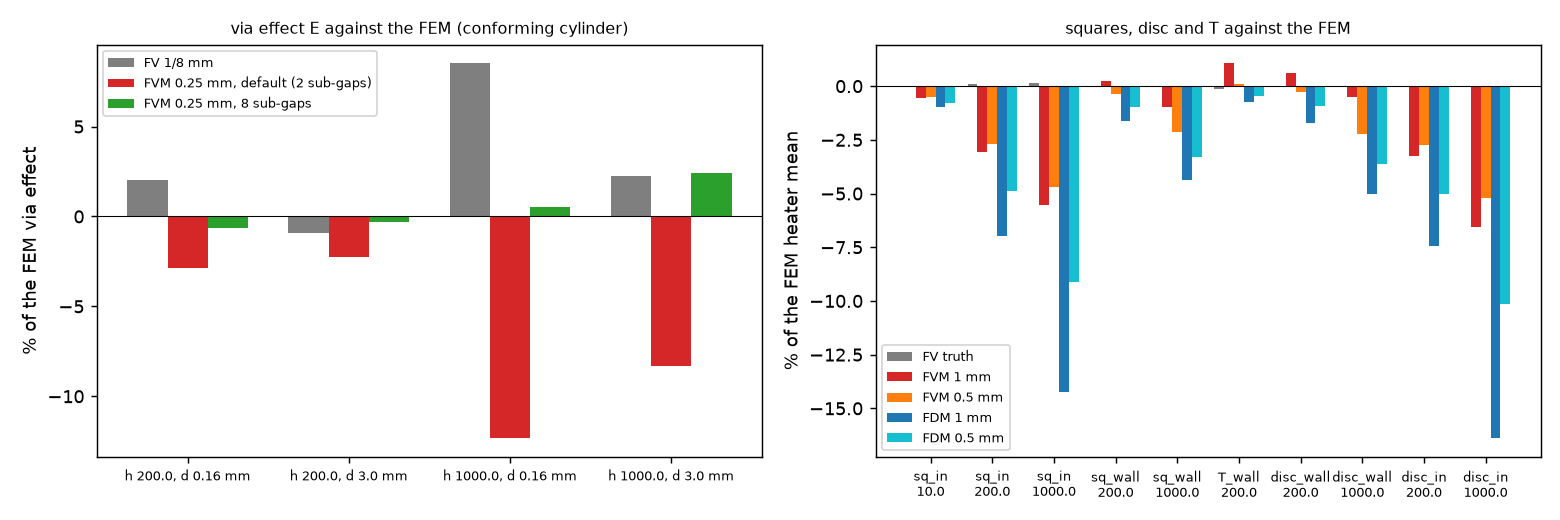
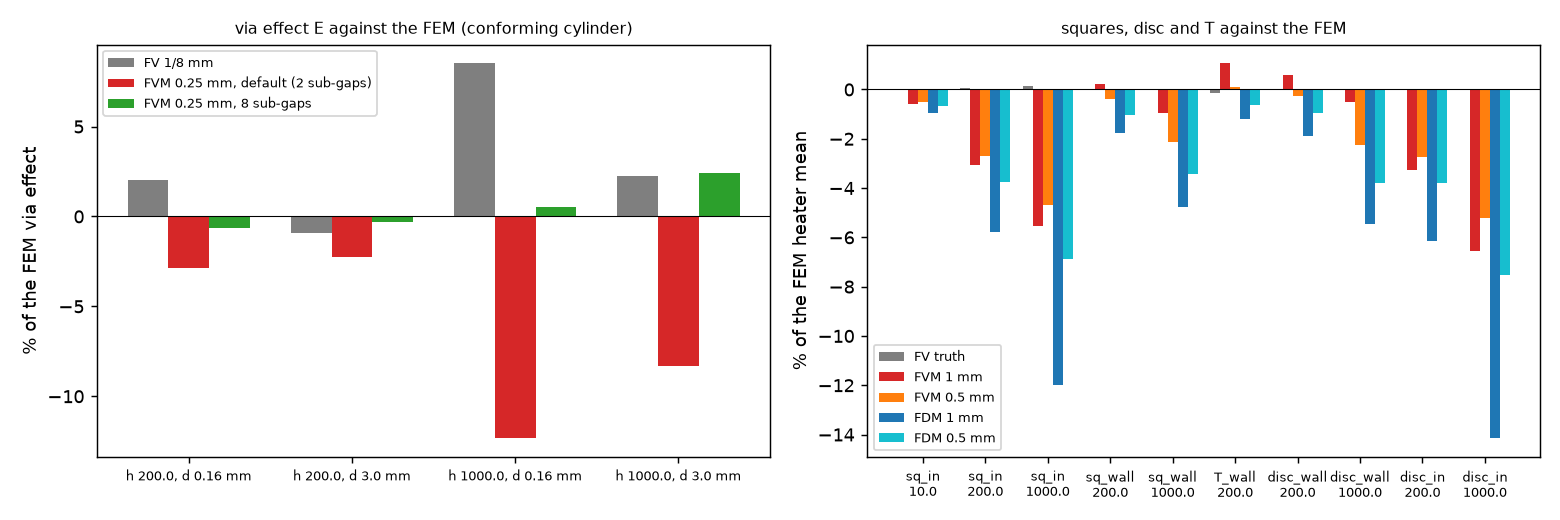
Re-run independent-fem-edge on develop and correct the FDM numbers
The FVM columns are bit-identical on develop e39de188; the FDM columns
moved with the cell-fill faces of validation 47. The first run's program
label (48ad0380) was wrong. Adds the closing review chapter.

Claude-Session: https://claude.ai/code/session_01XgeLDd5tWg6CEJL9TQpCpU

diff --git a/research/independent-fem-edge/README.md b/research/independent-fem-edge/README.md
@@ -30,7 +30,7 @@ Robin film as a natural boundary integral on the real wall, conforming cylinders
 
 ![Boards](figures/fig_04_boards_against_fem.png)
 
-*Figure 4 (fig_04_boards_against_fem.png): via effect and the squares, disc and T of the program against the finite elements (sections 3b to 3d).*
+*Figure 4 (fig_04_boards_against_fem.png): via effect and the squares, disc and T of the program (`develop` e39de188, the FDM with the cell-fill faces of validation 47) against the finite elements (sections 3b to 3d).*
 
 ## Layout and how to run (from the repository root)
 
@@ -150,8 +150,14 @@ conjugate gradients with a pyamg smoothed-aggregation preconditioner (`.venv-res
 ## 3. Comparison studies
 
 All numbers below are printed by `scripts/study_report.py` (`out/report.md`, `out/report.json`) from the caches of `study_fem_cases.py` (FEM),
-`study_program.py` (the program of this tree, `develop` at 48ad0380: FVM, and FDM at its harmonic default) and `study_fv_refs.py` (`ref3d.py` at
-1/4 and 1/8 mm with 8 slabs per gap; the stored truths of the drawn boards). **On this tree the simple and the advanced stack-up are bit-identical**
+`study_program.py` (the program: FVM, and the FDM at its default) and `study_fv_refs.py` (`ref3d.py` at
+1/4 and 1/8 mm with 8 slabs per gap; the stored truths of the drawn boards). **Program version of the columns** (review, section 7): every program number of sections 3, 4 and 6
+is the program of `develop` at e39de188 (2.7.0 candidate, version string 2.6.0), re-run by the review. The FVM columns are bit-identical (to 1e-9, all 160 records of
+`study_program.py` and the 208 FVM records of section 6) to the first run; the FDM columns moved where a drawn copper edge or an outline cuts the nodes, because
+the FDM faces of drawn copper layers are built from the copper fill of the cells since `fix/fdm-copper-edge-faces` (`docs/validation.md` 47); the first run's FDM
+value (the harmonic faces of validation 41) is kept in brackets where it moved. The first run was labelled `develop` at 48ad0380: that label was wrong (at 48ad0380 the
+simple stack-up still gave every node T / L, while the first run's simple and physical records are identical), so the first run was made on a later tree with the
+physical slabs and without the FDM cell-fill faces. **On this tree the simple and the advanced stack-up are bit-identical**
 (`fix/simple-stackup-physical-layers`, validation 43; asserted in `study_report.py` on every strong-edge record), so the program columns are
 "default (2 sub-gaps) / 8 sub-gaps" only. "FEM ext" is the Richardson limit of three plan meshes (6 graded elements per gap) plus a through-thickness
 correction from a 3 / 6 / 12 / 24 elements-per-gap sequence on the middle plan mesh (+0.013 K at 200 W/m2K, +0.045 K at 1000: the sequence
@@ -164,9 +170,9 @@ correction from a 3 / 6 / 12 / 24 elements-per-gap sequence on the middle plan m
 | 10 | to the wall | 51.6904 / 51.6801 / 51.6866 | - | 51.687 (0.01 %) | +0.02 % | +0.01 % | -0.02 / -0.01 | -0.03 / -0.01 | -0.05 / -0.10 |
 | 200 | to the wall | 36.9037 / 36.9317 / 36.9475 | 0.83 | 36.981 (0.07 %) | +0.78 % | +0.27 % | -0.57 / +0.46 | -0.03 / +1.53 | -1.10 / -1.44 |
 | 1000 | to the wall | 24.1242 / 24.2432 / 24.2751 | 1.90 | 24.332 (0.06 %) | +3.97 % | +1.65 % | **-3.52 / +2.01** | -1.97 / +6.12 | **-5.13 / -6.35** |
-| 10 | inset 0.5 mm | 53.2646 / 53.3670 / 53.3955 | 1.85 | 53.406 (0.03 %) | +0.58 % | +0.28 % | -0.11 / +0.30 | +0.35 / +0.89 | -0.97 / -1.26 |
-| 200 | inset 0.5 mm | 41.5794 / 41.7514 / 41.7971 | 1.91 | 41.826 (0.05 %) | +1.69 % | +0.82 % | -0.45 / +0.99 | +0.53 / +2.63 | -3.47 / -5.10 |
-| 1000 | inset 0.5 mm | 33.5260 / 33.7723 / 33.8373 | 1.92 | 33.906 (0.09 %) | +3.30 % | +1.57 % | -1.09 / +1.91 | +0.69 / +5.13 | **-7.64 / -12.21** |
+| 10 | inset 0.5 mm | 53.2646 / 53.3670 / 53.3955 | 1.85 | 53.406 (0.03 %) | +0.58 % | +0.28 % | -0.11 / +0.30 | +0.35 / +0.89 | -0.56 / -0.95 [-0.97 / -1.26] |
+| 200 | inset 0.5 mm | 41.5794 / 41.7514 / 41.7971 | 1.91 | 41.826 (0.05 %) | +1.69 % | +0.82 % | -0.45 / +0.99 | +0.53 / +2.63 | -1.48 / -2.28 [-3.47 / -5.10] |
+| 1000 | inset 0.5 mm | 33.5260 / 33.7723 / 33.8373 | 1.92 | 33.906 (0.09 %) | +3.30 % | +1.57 % | -1.09 / +1.91 | +0.69 / +5.13 | **-2.96 / -4.44** [-7.64 / -12.21] |
 
 Readings. (1) The first hexahedral study (a first hand-written hexahedral solver of this folder, 8 uniform bricks per gap, kept in git history at commit 5e28646f) extrapolated
 51.684 / 36.969 / 24.351 K: this solver gives 51.687 / 36.981 / 24.332, within 0.08 %. (2) The cell-centred reference `ref3d` converges from above at first
@@ -174,10 +180,11 @@ order where the film is strong: +1.65 % at 1/8 mm and 1000 W/m2K (copper to the 
 "3D reference" of validation 43 and 28 is therefore 1.6 % hot at 1000 W/m2K. (3) Against the FEM the FVM at 0.25 mm with the default two sub-gaps reads
 -3.5 % at 1000 W/m2K (validation 43.2 says -5.09 % against ref3d at 1/8 mm: the 1.6 points are the reference), -0.6 % at 200 (43.2: -0.83 %); with eight
 sub-gaps +2.0 % (43.2: +0.35 %): with the hot reference the eight-sub-gap program looked right and is in fact 2 % hot at 0.25 mm (the half-cell film of a
-cell wider than the sub-gap, which also gives +6.1 % at 0.5 mm). (4) The FDM at its harmonic default is cooler than the FVM everywhere: -5.1 % at 0.25 mm
-and 1000 W/m2K with copper to the wall, and **-7.6 % at 0.25 mm (-12.2 % at 0.5 mm) with the copper 0.5 mm inside the wall, where it already reads
--1.0 % at 10 W/m2K** (the FVM -0.1 %): the FDM's copper edge inside the board is a defect of its own, not of the edge film (the film is weak at 10 W/m2K).
-This FDM number is new; the repository has no FDM row for the inset board.
+cell wider than the sub-gap, which also gives +6.1 % at 0.5 mm). (4) The FDM at its default is cooler than the FVM everywhere: -5.1 % at 0.25 mm
+and 1000 W/m2K with copper to the wall (unchanged by the cell-fill faces: uniform copper), and with the copper 0.5 mm inside the wall -0.6 / -1.5 / -3.0 % at
+0.25 mm (10 / 200 / 1000 W/m2K; -1.0 / -2.3 / -4.4 % at 0.5 mm) on `develop` e39de188, where the first run with the harmonic faces read -1.0 / -3.5 / **-7.6 %**
+(-1.3 / -5.1 / -12.2 % at 0.5 mm). The cell-fill faces of validation 47 removed about 60 % of that deficit; the rest (2 to 3 points at 1000 W/m2K) is still
+a copper-edge error of the FDM (the FVM reads -0.1 / -0.5 / -1.1 %).
 
 ### 3(b) Via effect E = hottest rise without the via minus with it (K); via a solid copper cylinder of radius 0.15 mm at 0.16 and 3 mm from the wall
 
@@ -195,44 +202,49 @@ Readings. (1) The disc-share via (reference and earlier study) overstates E by 1
 the 1/4 mm one by 6 to 17 %. (2) The program's via with eight sub-gaps is within 2.4 % of the conforming FEM at 0.25 mm (validation 28 and 43.2 quote -7.3 %
 at 1000 W/m2K and 0.16 mm against ref3d 1/8 mm: that was the reference's +8.5 %; against the FEM it is **+0.5 %**); with the default two sub-gaps the via
 effect is 8 to 12 % low at 1000 W/m2K (43.2: -19.2 %, again half of it the reference), 2 to 3 % low at 200. (3) The FDM reads the via effect 4 to 16 % low
-at 0.25 mm with the defaults (no repository number to compare).
+at 0.25 mm with the defaults (no repository number to compare; unchanged on `develop` e39de188). (4) Review: the 1/4 and 1/8 mm references converge towards
+the FEM: their error ratio is 2.1 to 2.9 on the plate and 2.05 to 3.1 on the via 0.16 mm from the wall, and a first-order extrapolation of the two (2 v(1/8) - v(1/4))
+lands -0.05 to -0.67 % (plate) and -0.4 / -2.2 % (via, 1000 / 200) from the FEM: the two methods share their limit. The via 3 mm from the wall is not in the
+asymptotic range of the reference (+8.4 % at 1/4 mm, -0.9 % at 1/8 mm, ratio of the errors negative), so its "-0.9 %" agreement at 1/8 mm is partly a crossing.
 ### 3(c) The 20 mm squares and the disc, heater mean rise, K (FEM: 12 graded elements per gap, three plan meshes, plus a 6 / 12 / 24 thickness correction, observed order 2.6 to 2.95)
 
 The program columns are the mean error of the ten turned (0 .. 45 degrees) and shifted (0, 0.3 cell) boards of validation 40, with the worst in brackets
-and, where a stored finite-volume truth exists, the mean error against that truth in square brackets. The disc is the program's 180-gon outline at shifts
+and, where a stored finite-volume truth exists, the mean error against that truth in square brackets; in braces, the FDM of the first run (harmonic faces, before the cell-fill faces of validation 47). The disc is the program's 180-gon outline at shifts
 0 and 0.3 cell (two boards, the FEM disc is one conforming O-grid with the heater as its inner square).
 
 | board | h_side | FEM 0.4 / 0.2 / 0.1 mm (disc: n 8 / 16 / 32) | FEM ext (GCI) | stored FV truth | FVM 1 mm | FVM 0.5 mm | FDM 1 mm | FDM 0.5 mm |
 | :-- | :-- | :-- | :-- | :-- | :-- | :-- | :-- | :-- |
-| square, copper 1.2 mm in | 10 | 124.375 / 124.473 / 124.516 | 124.551 (0.03 %) | 124.571 (+0.02 %) | -0.57 (0.78) [-0.58] | -0.51 (0.55) [-0.52] | -0.99 (1.25) | -0.78 (0.87) |
-| same | 200 | 56.852 / 57.045 / 57.126 | 57.201 (0.13 %) | 57.247 (+0.08 %) | -3.07 (4.54) [-3.15] | -2.68 (2.94) [-2.76] | -6.97 (8.60) | -4.89 (5.70) |
-| same | 1000 | 38.572 / 38.792 / 38.884 | 38.972 (0.21 %) | 39.026 (+0.14 %) | -5.53 (8.26) [-5.66] | -4.68 (5.37) [-4.82] | **-14.23 (17.57)** | -9.12 (10.86) |
-| square, copper to the wall | 200 | 50.459 / 50.567 / 50.604 | 50.635 (0.05 %) | 50.619 (-0.03 %) | +0.22 (0.87) [+0.25] | -0.37 (0.55) [-0.34] | -1.62 (2.19) | -0.97 (1.31) |
-| same | 1000 | 29.880 / 30.024 / 30.072 | 30.114 (0.10 %) | 30.105 (-0.03 %) | -0.96 (1.89) [-0.93] | -2.15 (2.61) [-2.12] | -4.36 (5.36) | -3.31 (3.92) |
-| disc, copper to the rim | 200 | 58.999 / 59.053 / 59.075 | 59.104 (0.03 %) | - | +0.60 (1.22) | -0.25 (0.33) | -1.72 (1.78) | -0.93 (0.96) |
-| same | 1000 | 32.484 / 32.670 / 32.725 | 32.773 (0.09 %) | - | -0.52 (1.60) | -2.24 (2.32) | -5.02 (5.16) | -3.64 (3.71) |
-| disc, copper 1.2 mm in | 200 | 66.110 / 66.468 / 66.589 | 66.670 (0.12 %) | - | -3.25 (3.31) | -2.74 (2.88) | -7.42 (7.52) | -5.03 (5.08) |
-| same | 1000 | 42.637 / 43.179 / 43.354 | 43.462 (0.24 %) | - | -6.56 (6.96) | -5.23 (5.42) | **-16.38 (16.53)** | -10.13 (10.30) |
+| square, copper 1.2 mm in | 10 | 124.375 / 124.473 / 124.516 | 124.551 (0.03 %) | 124.571 (+0.02 %) | -0.57 (0.78) [-0.58] | -0.51 (0.55) [-0.52] | -0.95 (1.25) {-0.99} | -0.69 (0.82) {-0.78} |
+| same | 200 | 56.852 / 57.045 / 57.126 | 57.201 (0.13 %) | 57.247 (+0.08 %) | -3.07 (4.54) [-3.15] | -2.68 (2.94) [-2.76] | -5.77 (8.10) {-6.97} | -3.77 (4.88) {-4.89} |
+| same | 1000 | 38.572 / 38.792 / 38.884 | 38.972 (0.21 %) | 39.026 (+0.14 %) | -5.53 (8.26) [-5.66] | -4.68 (5.37) [-4.82] | **-11.99 (16.75)** {-14.23} | -6.86 (9.19) {-9.12} |
+| square, copper to the wall | 200 | 50.459 / 50.567 / 50.604 | 50.635 (0.05 %) | 50.619 (-0.03 %) | +0.22 (0.87) [+0.25] | -0.37 (0.55) [-0.34] | -1.78 (2.33) {-1.62} | -1.02 (1.35) {-0.97} |
+| same | 1000 | 29.880 / 30.024 / 30.072 | 30.114 (0.10 %) | 30.105 (-0.03 %) | -0.96 (1.89) [-0.93] | -2.15 (2.61) [-2.12] | -4.76 (5.70) {-4.36} | -3.44 (4.03) {-3.31} |
+| disc, copper to the rim | 200 | 58.999 / 59.053 / 59.075 | 59.104 (0.03 %) | - | +0.60 (1.22) | -0.25 (0.33) | -1.87 (1.92) {-1.72} | -0.97 (1.00) {-0.93} |
+| same | 1000 | 32.484 / 32.670 / 32.725 | 32.773 (0.09 %) | - | -0.52 (1.60) | -2.24 (2.32) | -5.45 (5.58) {-5.02} | -3.78 (3.85) {-3.64} |
+| disc, copper 1.2 mm in | 200 | 66.110 / 66.468 / 66.589 | 66.670 (0.12 %) | - | -3.25 (3.31) | -2.74 (2.88) | -6.15 (6.35) {-7.42} | -3.80 (3.90) {-5.03} |
+| same | 1000 | 42.637 / 43.179 / 43.354 | 43.462 (0.24 %) | - | -6.56 (6.96) | -5.23 (5.42) | **-14.14 (14.49)** {-16.38} | -7.52 (7.76) {-10.13} |
 
 Hottest rise of the disc (program `t_max` against the FEM node maximum; shifts 0 / 0.3): copper to the rim 200: FVM 1 mm -0.05 / +0.14 %, 0.5 mm -0.53 / -0.33,
-FDM 1 mm -1.18 / -2.27, 0.5 mm -0.81 / -1.11; 1000: FVM -1.62 / -1.22 and -2.64 / -2.19, FDM -3.82 / -5.78 and -3.23 / -3.79; copper 1.2 mm in, 200: FVM -4.27 / -2.93
-and -2.82 / -2.79, FDM -6.87 / -7.56 and -4.74 / -5.07; 1000: FVM -8.18 / -5.58 and -5.23 / -5.13, FDM -15.01 / -16.06 and -9.31 / -9.96.
+FDM 1 mm -1.33 / -2.41, 0.5 mm -0.85 / -1.15; 1000: FVM -1.62 / -1.22 and -2.64 / -2.19, FDM -4.22 / -6.16 and -3.36 / -3.91; copper 1.2 mm in, 200: FVM -4.27 / -2.93
+and -2.82 / -2.79, FDM -5.75 / -6.25 and -3.53 / -3.93; 1000: FVM -8.18 / -5.58 and -5.23 / -5.13, FDM -13.09 / -13.79 and -6.79 / -7.58 (`develop` e39de188; the first
+run's harmonic FDM read -1.18 / -2.27, -0.81 / -1.11, -3.82 / -5.78, -3.23 / -3.79, -6.87 / -7.56, -4.74 / -5.07, -15.01 / -16.06, -9.31 / -9.96 in the same order).
 
 Readings. (1) The stored finite-volume truths of the squares agree with the conforming finite elements within 0.14 % (the +0.39 % the first hexahedral study
 found at 1000 W/m2K came from its 8 uniform bricks per gap: with the thickness resolved the two families agree), so every "before -> after" number of
 validation 40.2 for the squares holds to 0.2 point against the FEM: copper 1.2 mm inside -3.1 / -5.5 % (1 mm, 200 / 1000), copper to the wall +0.2 / -1.0 %.
 (2) The disc, a case not in the repository, behaves like the square: copper to the rim within 0.6 % at 1 mm and 200 W/m2K (the cut cells of a 180-gon are
 no worse than those of a turned square), copper 1.2 mm inside -3.3 / -6.6 % at 1 mm (200 / 1000), -2.7 / -5.2 % at 0.5 mm: the drawn copper edge inside
-the board still reads cool, as validation 40 says of the square. (3) **The FDM at its harmonic default is 2 to 3 times worse than the FVM on every drawn
-board with the copper inside the outline**: -7.0 / -14.2 % at 1 mm (square, 200 / 1000; worst 17.6 %), -7.4 / -16.4 % on the disc; it is also 1 to 3 points
-below the FVM with the copper to the wall. The repository quotes no FDM numbers for these boards.
+the board still reads cool, as validation 40 says of the square. (3) **The FDM is about twice as far from the FEM as the FVM on every drawn board with the copper inside the outline**: with the cell-fill faces of `develop`
+e39de188 -5.8 / -12.0 % at 1 mm (square, 200 / 1000; worst 16.8 %), -6.2 / -14.1 % on the disc (the first run, harmonic faces: -7.0 / -14.2 %, worst 17.6 %, and
+-7.4 / -16.4 %, 2 to 3 times the FVM); with the copper to the wall it is 0.6 to 5 points below the FVM, and the cell-fill faces move it 0.05 to 0.5 point further
+away there (validation 47 says the same). Validation 47 quotes these FDM numbers.
 
 ### 3(d) The T outline with copper to the wall, 200 W/m2K, heater mean rise
 
 FEM 67.113 / 67.249 / 67.291 K at 0.4 / 0.2 / 0.1 mm (12 per gap), p 1.70, extrapolated 67.325 K (GCI 0.03 %); the whole T solved without the symmetry plane
 gives 67.1124 against 67.1132 K of the half domain at 0.4 mm (the symmetry cut is right). Stored finite-volume truth 67.2415 K (-0.12 % from the FEM; the
 earlier hex study said -0.05 %). Program, ten turned boards: FVM 1 mm **+1.06 % (worst 1.35)** against the FEM, +1.19 (1.48) against the truth; 0.5 mm +0.12 (0.49)
-and +0.24 (0.42); FDM 1 mm -0.73 (3.10), 0.5 mm -0.44 (1.47). The +1.19 % hot excess of validation 40.2 is real (+1.06 % against the FEM) and falls with the cell.
+and +0.24 (0.42); FDM 1 mm -1.20 (3.29), 0.5 mm -0.61 (1.52) on `develop` e39de188 (first run, harmonic faces: -0.73 (3.10), -0.44 (1.47)). The +1.19 % hot excess of validation 40.2 is real (+1.06 % against the FEM) and falls with the cell.
 
 ## 4. Disagreements and proposed corrections to `docs/validation.md` (text for the project documents in `docs/validation-text.md`; the documents are not edited on this branch)
 
@@ -250,10 +262,13 @@ and +0.24 (0.42); FDM 1 mm -0.73 (3.10), 0.5 mm -0.44 (1.47). The +1.19 % hot ex
 4. **Validation 44, "not reconciled" (-1.3 / -3.9 / -7.2 / -11.7 against -0.8 / -2.5 / -5.1 / -8.9 %)**: not resolved here (that study's boards were not run); but
    the reference of section 36 / 43 being 1.6 % hot at 1000 W/m2K narrows the gap of the 1000 column from 2.1 to about 0.5 point if section 44's reference is
    closer to converged; worth a check with this solver (its boards are 10 x 10 mm with thin gaps, two minutes each).
-5. **New, not in the documents**: (a) the FDM at its harmonic default reads a drawn copper edge inside the outline 2 to 3 times cooler than the FVM
+5. **FDM findings** (the first run, harmonic faces): (a) the FDM read a drawn copper edge inside the outline 2 to 3 times cooler than the FVM
    (square and disc with copper 1.2 mm in: -7 / -14 % at 1 mm and 200 / 1000 W/m2K; -5 / -9 % at 0.5 mm) and the strong-edge plate with a 0.5 mm inset
-   -1.0 % already at 10 W/m2K (-7.6 % at 1000, 0.25 mm), where the FVM reads -0.1 / -1.1 %; (b) the FDM via effect is 4 to 16 % low at 0.25 mm. These are
-   candidates for an FDM warning or a fix (the FDM is the comparison model); the maintainer decides whether a validation row is wanted.
+   -1.0 % already at 10 W/m2K (-7.6 % at 1000, 0.25 mm), where the FVM reads -0.1 / -1.1 %; (b) the FDM via effect is 4 to 16 % low at 0.25 mm. Item (a) was
+   taken up by `research/fdm-inset-edge` and `fix/fdm-copper-edge-faces` (`docs/validation.md` 47, now in `develop`): on `develop` e39de188 the same boards read
+   -5.8 / -12.0 % (square, 1 mm), -3.8 / -6.9 % (0.5 mm), and the inset plate -0.6 / -1.5 / -3.0 % at 0.25 mm (10 / 200 / 1000 W/m2K): about twice the FVM's
+   error, no longer two to three times; the residual and the box-against-outline difference are A40 of `research/ROADMAP.md`. Item (b) is unchanged and is
+   not in any project document (a candidate for an FDM limit sentence).
 6. **The first hexahedral study (this folder before the present solver, commit 5e28646f)**: its plate extrapolations agree with this solver within 0.08 %, its square truths
    differ by up to 0.3 % through its 8 uniform bricks per gap (the thickness was not extrapolated there), and its via effect carries the disc-share bias
    (+1.5 to +2.3 %). Its numbers are superseded by the conforming values above.
@@ -268,8 +283,9 @@ the read-out convention of the hottest rise: the FEM gives the point maximum, th
   invariance, the published cases through the repository's values (the papers were not reopened: the published numbers are quoted from
   `research/effective-conductivity`, status S), the half-domain cuts (T whole = half), the energy balance on every solve.
 * **Not verified**: the representation of the via by a solid cylinder is the references' and the program's `fill_k = 385` convention, not a real plated
-  barrel (`r_in`, `k_fill` exist in `board.py` but no hollow via was run); the via sits on the symmetry line (half domain), as in `ref3d`; the FDM findings
-  of section 4.5 were not traced to a cause in `fdm.py` (a `fix/` investigation); the section 44 boards were not run; the
+  barrel (`r_in`, `k_fill` exist in `board.py` but no hollow via was run); the via sits on the symmetry line (half domain), as in `ref3d`; the FDM finding
+  4.5(a) was traced elsewhere (`research/fdm-inset-edge`: the half-copper node at a copper edge, fixed in part by `fix/fdm-copper-edge-faces`), the residual and
+  4.5(b) were not traced here; the section 44 boards are section 6; the
   L outline and the four-layer / pad / stripe boards of validation 40 were not run; no time domain, no metal blocks, no imported masks.
 * **Mesh limits reached**: plan 0.05 mm on the strong-edge board (138 000 to 158 000 unknowns, CG + AMG, 1.6 GB), 0.1 mm on the squares and T, n_side 32 on
   the disc, 24 elements per gap in the thickness sequences; the whole study peaked at 2.73 GB of resident memory (one direct solve of 59 000 unknowns);
@@ -277,7 +293,7 @@ the read-out convention of the hottest rise: the FEM gives the point maximum, th
   stopped: section 2).
 * **Observed orders below 2** on some plan sequences (0.83 at 200 W/m2K on the plate, 1.2 to 1.6 on the squares): the hottest point under a source and the
   re-entrant corners are singular, and the plan sequence has a graded mesh whose coarse part does not refine by exactly 2; the GCI (0.01 to 0.24 %) is
-  the honest band, and the through-thickness sequences (order 2.6 to 2.95) are clean.
+  the band of the graded sequences (with `hmax` held fixed the far field is not refined: a uniform sequence moves the plate at 200 W/m2K by 0.04 %, inside its GCI, but the Lee plate by 0.09 %, outside it; section 7.2; no conclusion moves), and the through-thickness sequences (order 2.6 to 2.95) are clean.
 * **Machine**: shared, one run at a time; the solves took 0 to 22 s each; the program runs under 1 GB.
 
 ## 6. Thin-laminate boards of validation 44
@@ -298,7 +314,7 @@ program, not by the FEM**: the 6-layer boards at 0.125 mm with 8 sub-gaps (294 0
 
 ### 6.1 Table (errors in % against the FEM; the FEM column "hottest 0.25 mm cell" is the like-for-like read-out of the program and of the reference at 0.25 mm; the 0.5 and 0.125 mm columns are measured against the FEM hottest cell of their own size; the FEM point extrapolation carries the 6 / 12 elements-per-gap correction measured at 1000 W/m2K, at most +0.03 K)
 
-| board | h_side | FEM point ext (GCI) | FEM hottest 0.25 mm cell | ref 0.25/8 | ref 0.125/8 | FVM 0.25: default / 8 | FVM 0.5: default / 8 | FVM 0.125/8 | FDM 0.25 default / 8 |
+| board | h_side | FEM point ext (GCI) | FEM hottest 0.25 mm cell | ref 0.25/8 | ref 0.125/8 | FVM 0.25: default / 8 | FVM 0.5: default / 8 | FVM 0.125/8 | FDM 0.25 default / 8 (pads: [first run, harmonic faces]) |
 | :-- | :-- | :-- | :-- | :-- | :-- | :-- | :-- | :-- | :-- |
 | full 2L 1.0 mm | 200 | 36.918 (-0.08 %) | 36.868 | +0.7 | +0.4 | -0.3 / +0.3 | +0.5 / +1.3 | +0.1 | -0.6 / -0.1 |
 | full 2L 1.0 mm | 500 | 31.188 (0.02 %) | 31.143 | +1.8 | +0.9 | -1.5 / +0.6 | -0.2 / +2.5 | -0.0 | -2.3 / -0.8 |
@@ -332,18 +348,18 @@ program, not by the FEM**: the 6-layer boards at 0.125 mm with 8 sub-gaps (294 0
 | full 8L 1.6 mm | 500 | 26.282 (0.10 %) | 26.239 | +3.5 | - | -2.1 / +2.8 | -1.5 / +6.7 | - | -2.1 / -1.1 |
 | full 8L 1.6 mm | 1000 | 21.276 (0.21 %) | 21.229 | +6.1 | - | -3.9 / +4.6 | -3.2 / +10.5 | - | -3.9 / -2.0 |
 | full 8L 1.6 mm | 2000 | 17.669 (0.37 %) | 17.616 | +8.8 | - | -6.2 / +6.2 | -5.4 / +13.2 | - | -6.2 / -3.1 |
-| pad 4L 1.6 mm | 200 | 61.073 (0.11 %) | 61.029 | +2.9 | +1.4 | -0.6 / +1.9 | +1.9 / +4.8 | +0.5 | -5.4 / -3.4 |
-| pad 4L 1.6 mm | 500 | 54.337 (0.14 %) | 54.295 | +3.8 | +1.8 | -1.0 / +2.5 | +2.0 / +6.3 | +0.7 | -6.9 / -4.1 |
-| pad 4L 1.6 mm | 1000 | 50.299 (0.17 %) | 50.257 | +4.6 | +2.1 | -1.7 / +2.9 | +1.6 / +7.4 | +0.8 | -8.3 / -4.8 |
-| pad 4L 1.6 mm | 2000 | 47.383 (0.20 %) | 47.342 | +5.5 | +2.6 | -2.7 / +3.1 | +0.7 / +8.1 | +0.9 | -9.7 / -5.4 |
-| pad 6L 1.6 mm | 200 | 50.150 (0.11 %) | 50.106 | +2.5 | +1.1 | -1.3 / +1.9 | +0.5 / +4.4 | +0.6 | -4.9 / -2.6 |
-| pad 6L 1.6 mm | 500 | 42.671 (0.16 %) | 42.628 | +3.8 | +1.7 | -2.4 / +3.0 | -0.2 / +6.9 | +1.0 | -6.8 / -3.4 |
-| pad 6L 1.6 mm | 1000 | 38.159 (0.21 %) | 38.117 | +5.1 | +2.2 | -3.7 / +3.8 | -1.3 / +8.8 | +1.3 | -8.8 / -4.2 |
-| pad 6L 1.6 mm | 2000 | 34.985 (0.26 %) | 34.943 | +6.2 | +2.8 | -5.1 / +4.5 | -2.5 / +10.0 | +1.6 | -10.6 / -5.0 |
-| pad 8L 1.0 mm | 200 | 37.130 (0.15 %) | 37.094 | +1.8 | - | +0.3 / +1.3 | +1.2 / +2.8 | - | -1.8 / -1.4 |
-| pad 8L 1.0 mm | 500 | 30.676 (0.26 %) | 30.642 | +3.8 | - | +0.3 / +3.2 | +1.6 / +6.5 | - | -2.5 / -2.0 |
-| pad 8L 1.0 mm | 1000 | 25.890 (0.39 %) | 25.857 | +6.5 | - | -0.0 / +5.5 | +1.7 / +10.6 | - | -3.5 / -2.7 |
-| pad 8L 1.0 mm | 2000 | 22.131 (0.54 %) | 22.100 | +9.3 | - | -0.7 / +7.7 | +1.2 / +14.0 | - | -4.8 / -3.6 |
+| pad 4L 1.6 mm | 200 | 61.073 (0.11 %) | 61.029 | +2.9 | +1.4 | -0.6 / +1.9 | +1.9 / +4.8 | +0.5 | -3.1 / -2.0 [-5.4 / -3.4] |
+| pad 4L 1.6 mm | 500 | 54.337 (0.14 %) | 54.295 | +3.8 | +1.8 | -1.0 / +2.5 | +2.0 / +6.3 | +0.7 | -4.1 / -2.5 [-6.9 / -4.1] |
+| pad 4L 1.6 mm | 1000 | 50.299 (0.17 %) | 50.257 | +4.6 | +2.1 | -1.7 / +2.9 | +1.6 / +7.4 | +0.8 | -5.2 / -3.0 [-8.3 / -4.8] |
+| pad 4L 1.6 mm | 2000 | 47.383 (0.20 %) | 47.342 | +5.5 | +2.6 | -2.7 / +3.1 | +0.7 / +8.1 | +0.9 | -6.4 / -3.5 [-9.7 / -5.4] |
+| pad 6L 1.6 mm | 200 | 50.150 (0.11 %) | 50.106 | +2.5 | +1.1 | -1.3 / +1.9 | +0.5 / +4.4 | +0.6 | -3.2 / -1.8 [-4.9 / -2.6] |
+| pad 6L 1.6 mm | 500 | 42.671 (0.16 %) | 42.628 | +3.8 | +1.7 | -2.4 / +3.0 | -0.2 / +6.9 | +1.0 | -4.8 / -2.5 [-6.8 / -3.4] |
+| pad 6L 1.6 mm | 1000 | 38.159 (0.21 %) | 38.117 | +5.1 | +2.2 | -3.7 / +3.8 | -1.3 / +8.8 | +1.3 | -6.5 / -3.2 [-8.8 / -4.2] |
+| pad 6L 1.6 mm | 2000 | 34.985 (0.26 %) | 34.943 | +6.2 | +2.8 | -5.1 / +4.5 | -2.5 / +10.0 | +1.6 | -8.1 / -3.8 [-10.6 / -5.0] |
+| pad 8L 1.0 mm | 200 | 37.130 (0.15 %) | 37.094 | +1.8 | - | +0.3 / +1.3 | +1.2 / +2.8 | - | -1.4 / -1.2 [-1.8 / -1.4] |
+| pad 8L 1.0 mm | 500 | 30.676 (0.26 %) | 30.642 | +3.8 | - | +0.3 / +3.2 | +1.6 / +6.5 | - | -2.0 / -1.7 [-2.5 / -2.0] |
+| pad 8L 1.0 mm | 1000 | 25.890 (0.39 %) | 25.857 | +6.5 | - | -0.0 / +5.5 | +1.7 / +10.6 | - | -3.0 / -2.4 [-3.5 / -2.7] |
+| pad 8L 1.0 mm | 2000 | 22.131 (0.54 %) | 22.100 | +9.3 | - | -0.7 / +7.7 | +1.2 / +14.0 | - | -4.2 / -3.3 [-4.8 / -3.6] |
 
 The FEM plan sequences of the 8-layer boards at 1000 and 2000 W/m2K are the least converged (observed order 0.6 to 0.9, GCI 0.4 to 1.3 %): the gaps are 0.10 to
 0.19 mm and the 0.05 mm plan size is not yet asymptotic for the field at the wall; the 0.25 mm cell mean, which is what every comparison uses, is less
@@ -367,9 +383,10 @@ sensitive than the point maximum. Elsewhere the GCI is 0.01 to 0.27 %.
    `check_edge_laminate` already says of the 0.5 mm cell). Against the hot reference at 0.25 mm they looked right (-0.2 .. -2.6 %). The program at 0.125 mm
    with eight sub-gaps is +0.2 .. +2.7 % (thin), +0.5 .. +1.6 % (pads), -1.0 .. +0.7 % (cut gaps): the layered idealisation converges to the FEM from above
    with the cell and from below with the sub-gap count; the default at 0.25 mm and eight sub-gaps at 0.125 mm bracket the truth.
-4. **FDM** (harmonic default, 0.25 mm): on the full-copper boards the same as the FVM to 0.1 point (-0.2 .. -1.1 / -0.9 .. -3.3 / -2.2 .. -5.9 / -4.0 .. -9.6 %);
-   on the **pad boards 2 to 5 points cooler than the FVM** (-1.8 .. -5.4 % already at 200 W/m2K, -3.5 .. -8.8 at 1000, -4.8 .. -10.6 at 2000): the copper edge
-   inside the outline again (section 4, item 5a), now on a four- to eight-layer board with inner planes.
+4. **FDM** (default, 0.25 mm): on the full-copper boards the same as the FVM to 0.1 point (-0.2 .. -1.1 / -0.9 .. -3.3 / -2.2 .. -5.9 / -4.0 .. -9.6 %;
+   unchanged by the cell-fill faces); on the **pad boards 1.7 to 3.7 points cooler than the FVM** on `develop` e39de188 (-1.4 .. -3.2 % at 200 W/m2K, -3.0 .. -6.5
+   at 1000, -4.2 .. -8.1 at 2000), where the first run with the harmonic faces read 2 to 5 points (-1.8 .. -5.4 / -3.5 .. -8.8 / -4.8 .. -10.6 %): the copper edge
+   inside the outline again (section 4, item 5a), on a four- to eight-layer board with inner planes; the faces of validation 47 cut the FDM error of the pads by a fifth to two fifths.
 
 #### 6.3 Proposed corrections (not edited)
 
@@ -390,14 +407,68 @@ sensitive than the point maximum. Elsewhere the GCI is 0.01 to 0.27 %.
 
 ## 7. Review
 
-Scope: `lib/`, `tests/`, `scripts/` and sections 1 to 6. Everything here was re-run. The checks are reproduced by `tests/test_review.py` or quoted with their output.
+Two reviews by the project reviewer: the review of the folder as it is in the repository (7.0 to 7.0.4, the closing review, run on `develop` e39de188) and the
+first review of the tool before it entered the repository (7.1 to 7.8, its checks re-confirmed by the closing review where said).
 
-### 7.0 Verdict
+### 7.0 Verdict of the closing review
 
-**GO** as the independent reference for the **steady** validation numbers of layered boards: copper sheets, orthotropic laminate, films on the faces and
-on every wall slice, axis-aligned, turned and disc outlines, and a solid copper via cylinder. Two conditions apply: (a) the Lee values are the corrected
-ones below, and (b) any `docs/validation.md` sentence that compares a **hottest rise** of the program with the FEM states the read-out convention
-(point against cell mean, below). It is **not** a reference for transients, metal blocks, imported masks or a hollow plated barrel. None of these was run.
+**GO** for the merge of the folder and as the independent reference for the **steady** validation numbers of layered boards (copper sheets, orthotropic
+laminate, films on the faces and on every wall slice, axis-aligned, turned and disc outlines, a solid copper via cylinder), with the conditions of the first
+review kept: (a) the corrected Lee values, (b) a `docs/validation.md` sentence that compares a program **hottest rise** with the FEM states whether the FEM value
+is the point maximum or the hottest cell mean (section 7.0.3 finds that validation 46 does not). It is **not** a reference for transients, metal blocks,
+imported masks or a hollow plated barrel (none was run). The project documents need the corrections of `docs/validation-text.md` (stale FDM numbers, the
+read-out sentence of validation 46, the places that call the reference "outside the repository"); they are not edited on this branch.
+
+#### 7.0.1 What was re-run (`develop` e39de188 merged into the branch; `.venv` for the program, `.venv-research` with scikit-fem 12.0.2 and pyamg 5.4.1)
+
+* Tests: `.venv` 11 passed, 1 skipped (the scikit-fem cross-check); `.venv-research` 12 passed.
+* `study_program.py` (all 160 records, 19 s, 0.26 GB) and `study_thin_laminate.py prog` (every FVM record at 0.5 and 0.25 mm, the 0.125 mm records of the
+  2- and 4-layer boards, every FDM record; 92 s, 2.6 GB peak); `study_report.py` and `study_thin_laminate.py report` print the tables of sections 3 and 6.
+  **FVM: all 160 + 208 records bit-identical (1e-9) to the first run. FDM: 32 of 160 and 36 of 132 records moved** (every board with a drawn copper edge or an
+  outline cutting the nodes; full-copper plates and the vias did not move), by the cell-fill faces of `fix/fdm-copper-edge-faces`. The tables now carry the
+  numbers of `develop` e39de188 with the first run's FDM in brackets; the new FDM numbers reproduce `docs/validation.md` 47 to the digit (inset plate
+  -0.56 / -1.48 / -2.96 % at 0.25 mm against 47.1's -0.56 / -1.48 / -2.97, a rounding of the last digit; square, disc, T as in 47.1's review table).
+* FEM: nine cached solves re-solved from scratch (plate 1000 W/m2K at 0.1 and at 0.05 mm, the latter 138 000 unknowns by CG + AMG, 0.93 GB; plate inset 200 at 0.2;
+  via 0.16 mm at 0.1; square inset 1000, disc inset 1000, T at the middle meshes; two thin boards at 0.1 mm, one of 100 640 unknowns): equal to the cache to
+  1.6e-12 K, balance 1 to 2e-12. The thin 4-layer 1.6 mm board at 1000 W/m2K equals the strong-edge plate to the last digit (same board, two builders).
+* The program-version label of the first run (`develop` 48ad0380) was **wrong**: at 48ad0380 the simple stack-up still gave every node T / L, while the first
+  run's simple and physical records are identical and `study_report.py` asserts it; the first run was on a later tree (physical slabs, no FDM cell-fill faces).
+  Corrected in section 3, section 8 and `INTEGRATION.md`.
+
+#### 7.0.2 Independent checks of the conclusions
+
+* **The explanation "the cell-centred reference is hot because its half-cell film is first order" was tested directly**: the errors of `ref3d` at 1/4 and
+  1/8 mm against the FEM fall by a ratio 2.1 to 2.9 (plate, four cases) and 2.05 / 3.1 (via 0.16 mm), and the first-order extrapolation 2 v(1/8) - v(1/4) of the
+  reference lands -0.05 to -0.67 % (plate) and -0.4 % (via, 1000 W/m2K) from the FEM: a cell-centred finite-volume solver and the conforming finite elements
+  converge to the same limit, so the agreement of the FEM with the stored truths is not two errors cancelling. The via 3 mm from the wall is not in the
+  asymptotic range of the reference (errors +8.4 % then -0.9 %), so its "-0.9 % at 1/8 mm" is a crossing, not a convergence (said in 3(b)).
+* Closed forms (`tests/test_closed_forms.py`, `test_review.py`, run): 1D series stack 1e-9, Robin fin 1e-5, two-wall Robin sheet order 2, manufactured box and
+  disc order 2, the Lee plate against an own cosine series (1e-4) and a two-layer board against an own layered series (1e-5), a patch test 7e-15.
+* The element code was read again against the Q1 formulation (`lib/fem.py`: `B = dN J^-1`, `sum B diag(k) B^T |det J|`, 2 x 2 x 2 Gauss, face mass on the real
+  face); no defect.
+* Numbers of the readings checked against the printed tables: 3(a) to 3(d), 6.1 and the items of 6.2 (thin-gap ranges -0.1 .. -1.1 / ... / -4.0 .. -9.6 %,
+  eight sub-gaps +0.7 .. +1.1 / ... / +5.0 .. +7.3 %, the 4-layer 1.6 mm board -0.4 / -1.4 / -3.2 / -6.0 %): all reproduce. Corrected: the FDM readings (3(a)
+  item 4, 3(c) item 3, 3(d), 4 item 5, 6.2 item 4: the FDM is now about twice the FVM's error at a copper edge inside the outline, no longer two to three
+  times), the "not verified" list of section 5 (section 44 boards are run in section 6; the FDM finding 4.5(a) was traced by `research/fdm-inset-edge`).
+
+#### 7.0.3 Findings in the project documents (for the maintainer; text in `docs/validation-text.md`)
+
+1. **Wrong document, validation 46**: the paragraph says the FEM hottest value "is read as the hottest cell mean like the program's", but the plate rows of
+   its table (-0.57 / -3.52 %, +0.46 / +2.01 %, FDM -1.10 / -5.13 %, 0.5 mm -0.03 / -1.97, +1.53 / +6.12) are against the **point** extrapolation (section 3(a)).
+   Against the hottest 0.25 mm cell (point -0.13 % / -0.20 %, section 7.3) they are -0.44 / -3.32 %, +0.59 / +2.21 %, FDM -0.97 / -4.94 %. The thin-laminate
+   numbers (44, 46, the warnings) ARE cell means and stand. Either the rows or the sentence must change; no conclusion moves (0.1 to 0.2 point).
+2. **Stale document, validation 46**: "The FDM at its harmonic default reads a drawn copper edge inside the outline 2 to 3 times cooler than the FVM (-7.0 /
+   -14.2 %)" and "on thin-gap boards with pads, 2 to 5 points colder": since validation 47 the default FDM reads -5.8 / -12.0 % and 1.7 to 3.7 points.
+3. **Stale location**: validation 46, `CLAUDE.md` (open decision 1, gate item 1, the Decisions Log entry on the edge warnings) and the 2.7.0 final opinion
+   (`README.md` 2, 5, 6; `fdm-copper-edge-faces.md`) say the reference is outside the repository or cite its git-ignored location; once this folder is
+   merged it is `research/independent-fem-edge`. The list is in `docs/validation-text.md`.
+
+#### 7.0.4 Not verified by the closing review
+
+The FEM sequences were not re-run in full (nine solves were, all equal to the cache; the rest is read from `out/fem_cache.json` and `out/thin_fem.json`,
+which the scripts regenerate); the `ref3d` references (`study_fv_refs.py`) and the reference of section 6 were not re-run (the program does not enter them);
+the FVM 0.125 mm records of the 6- and 8-layer boards were not re-run (above the memory budget; the FVM did not move anywhere else); the published cases
+(`study_published.py`) were not re-run; the papers were not reopened (status S).
 
 ### 7.1. Element formulation (read against Zienkiewicz-Taylor / Hughes, Q1 isoparametric heat conduction)
 
@@ -506,8 +577,8 @@ for this tool.
 ### 7.8. Not verified
 
 * The Culham coupon was not re-derived independently.
-* The finest FEM runs (CG + AMG, 0.05 mm) were not repeated. The disc and T sequences were not re-run, only read from the cache.
-* The cause of the FDM defect was not found.
+* The finest FEM runs (CG + AMG, 0.05 mm) were not repeated (the closing review re-solved one, plate 1000 W/m2K at 0.05 mm: equal to 1.6e-12 K). The disc and T sequences were not re-run, only read from the cache (the closing review re-solved their middle meshes: equal).
+* The cause of the FDM defect was not found here (later: `research/fdm-inset-edge`, `docs/validation.md` 47).
 * The papers were not reopened (status S).
 
 
@@ -519,9 +590,10 @@ for this tool.
   the energy balance on every solve, Lee's plate against an own cosine series (1e-4), a layered board against an own layered series (1e-5), and a patch test on a distorted mesh. The
   published cases are reproduced only through the repository's finite-volume values and the same distances from the papers (the papers are not reopened).
 * **Not verified**: a hollow plated barrel (every via number is the solid `fill_k = 385` convention); stripes and imported masks; the L outline and the four-layer, pad and stripe
-  boards of validation 40; transients and metal blocks; the Culham coupon was not re-derived independently; the finest runs were not repeated; the cause of the FDM finding (section 4,
-  item 5) was not traced in `fdm.py`; the 8-layer pad board at 0.05 mm (460 000 unknowns) was not solved.
-* The program numbers in the tables were printed by the program of the integration tip at the time of the runs (`develop` at 48ad0380 for sections 3 and 4); they are a snapshot, and
-  the project reviewer's earlier review of this tool (section 7) is to be re-checked by the next review of the folder (`research/REVIEW.md`).
+  boards of validation 40; transients and metal blocks; the Culham coupon was not re-derived independently; of the finest runs one was repeated (section 7.0.1); the FDM finding 4.5(a) was traced by `research/fdm-inset-edge`, its residual and 4.5(b) were not
+  traced; the 8-layer pad board at 0.05 mm (460 000 unknowns) was not solved.
+* The program numbers in the tables were printed by the program of `develop` at e39de188 (the closing review's re-run, section 7.0.1); the FDM numbers of the first run, on an earlier
+  tree without the FDM cell-fill faces (wrongly labelled 48ad0380 before), are kept in brackets where they moved. A later model change moves the program columns, not the
+  finite-element ones: `study_program.py`, `study_thin_laminate.py prog` and the two report scripts regenerate them (under 2 minutes and 2.6 GB).
 * The first, hand-written hexahedral solver that this folder held before (a different implementation of the same idea; its extrapolations agree with the present one within 0.08 %
   on the plate) is not kept in the tree; it is in git history at commit 5e28646f.
